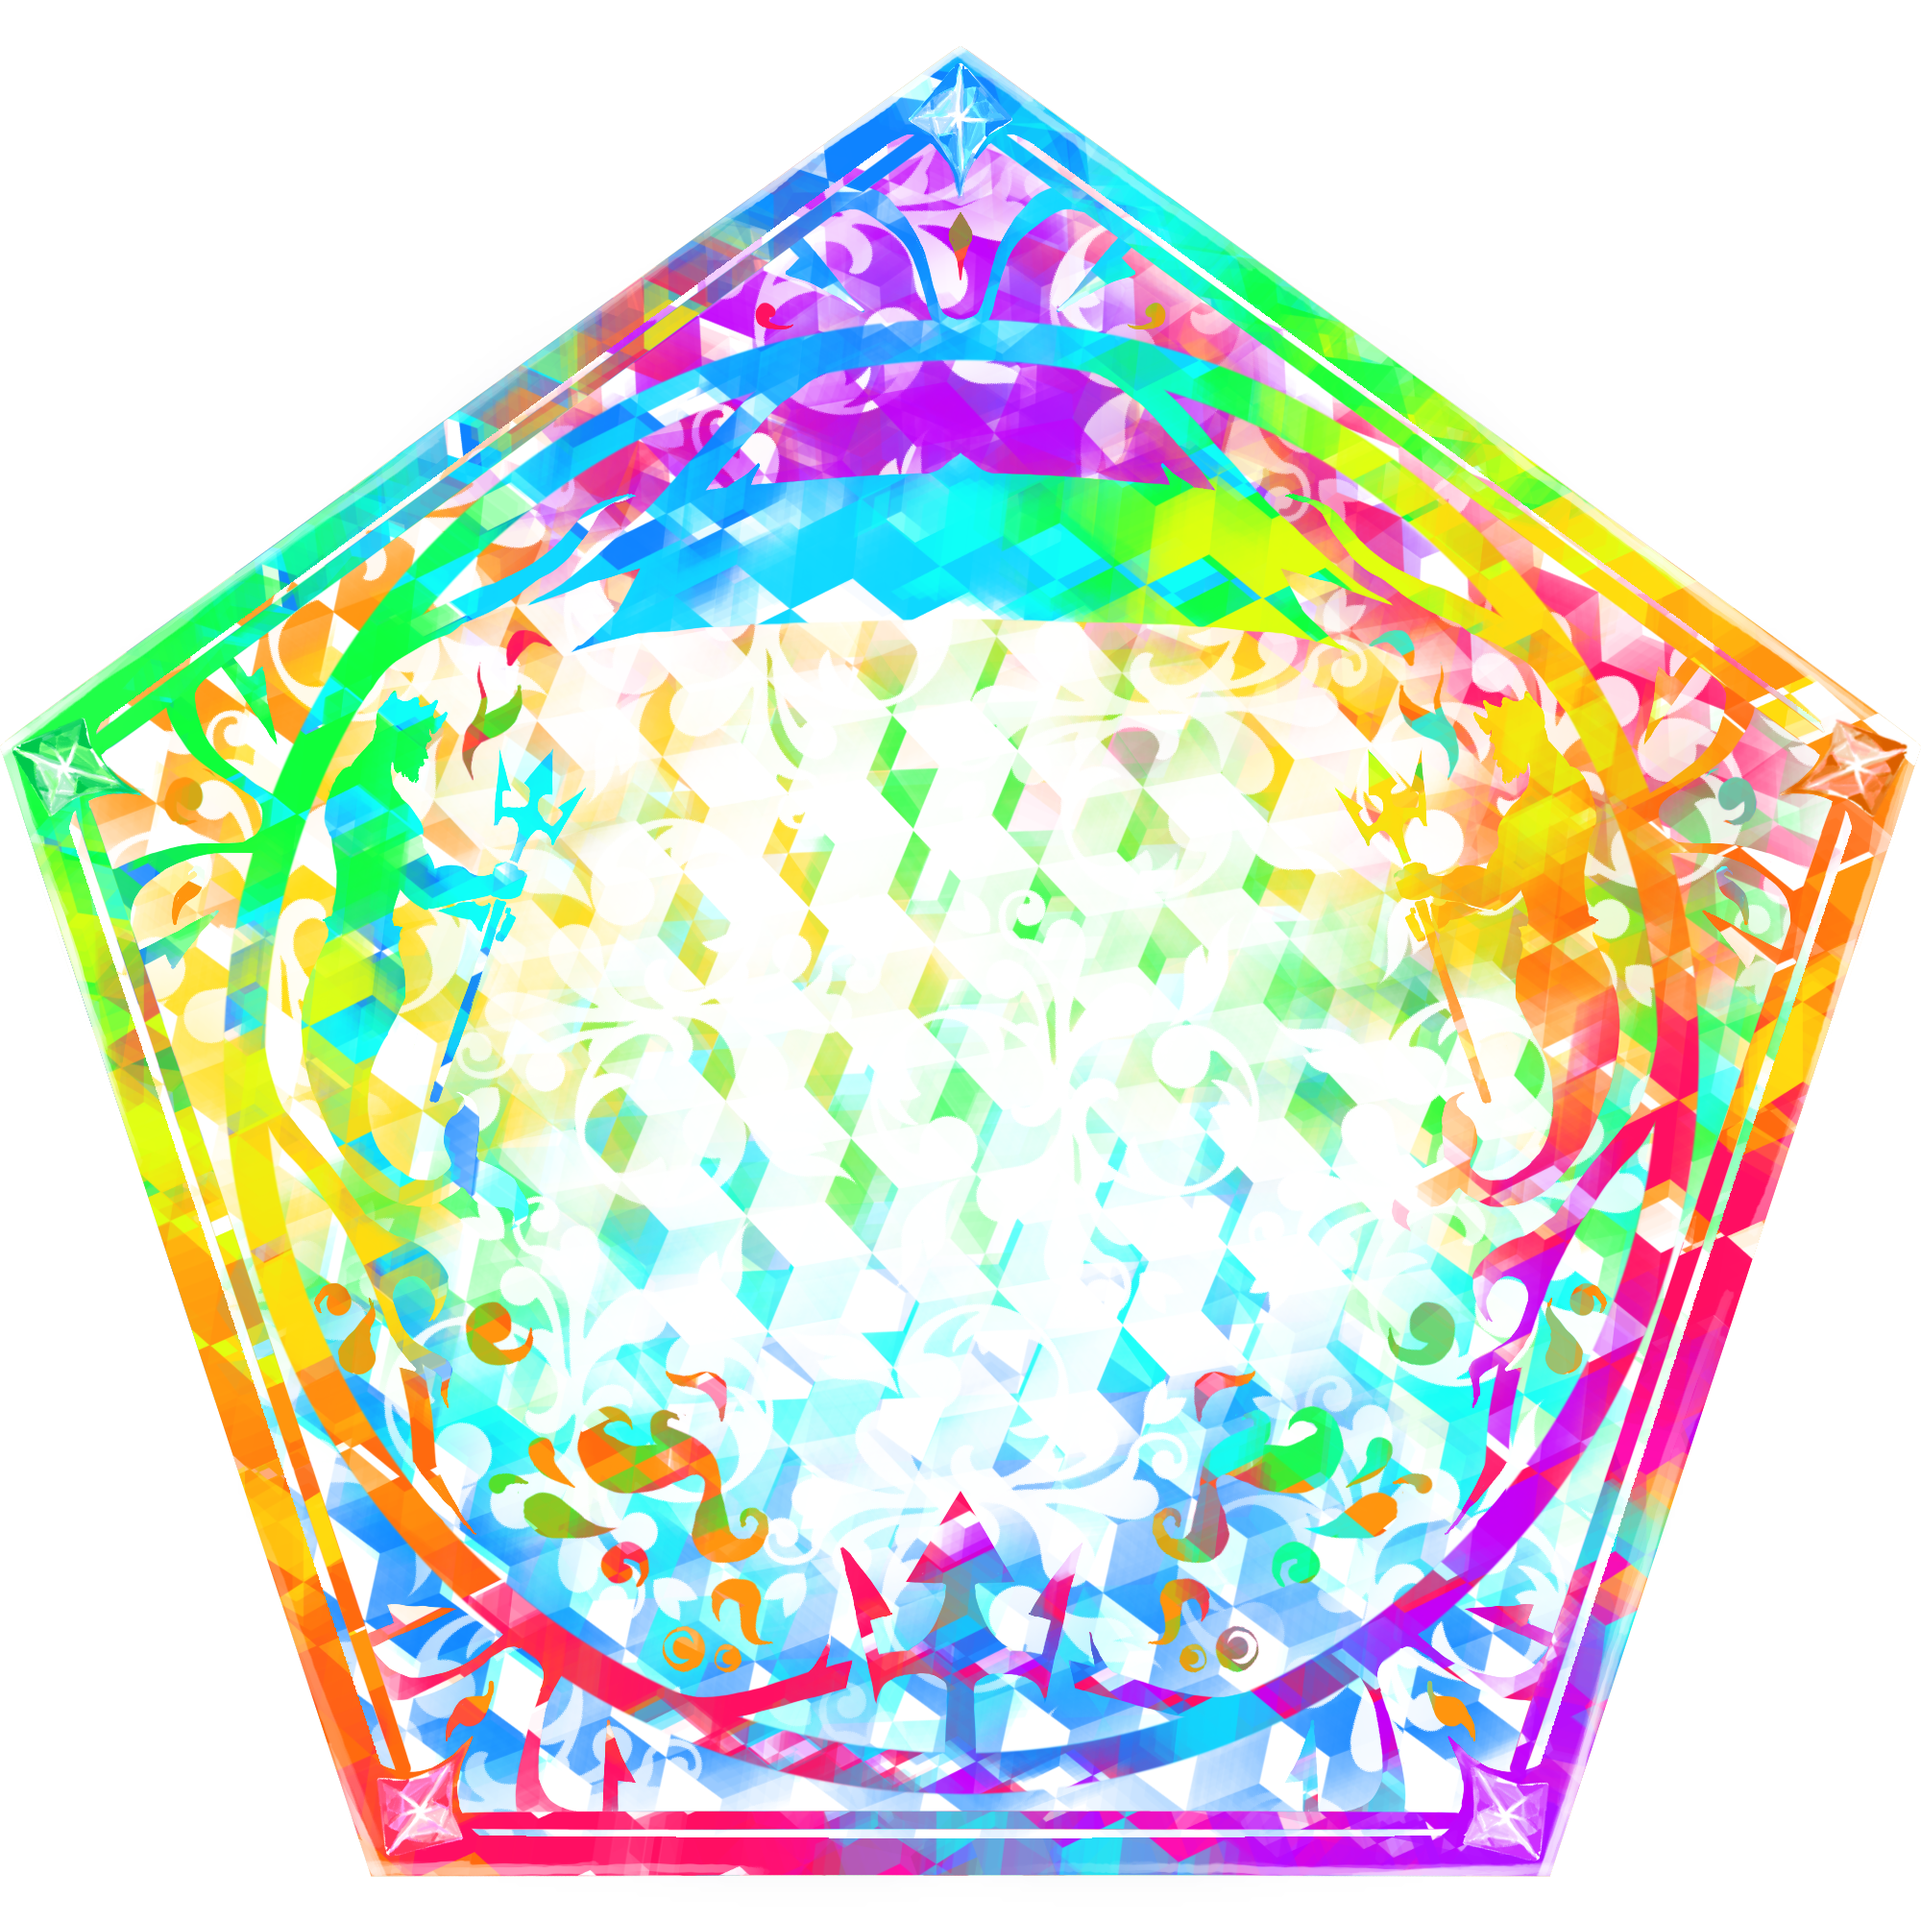
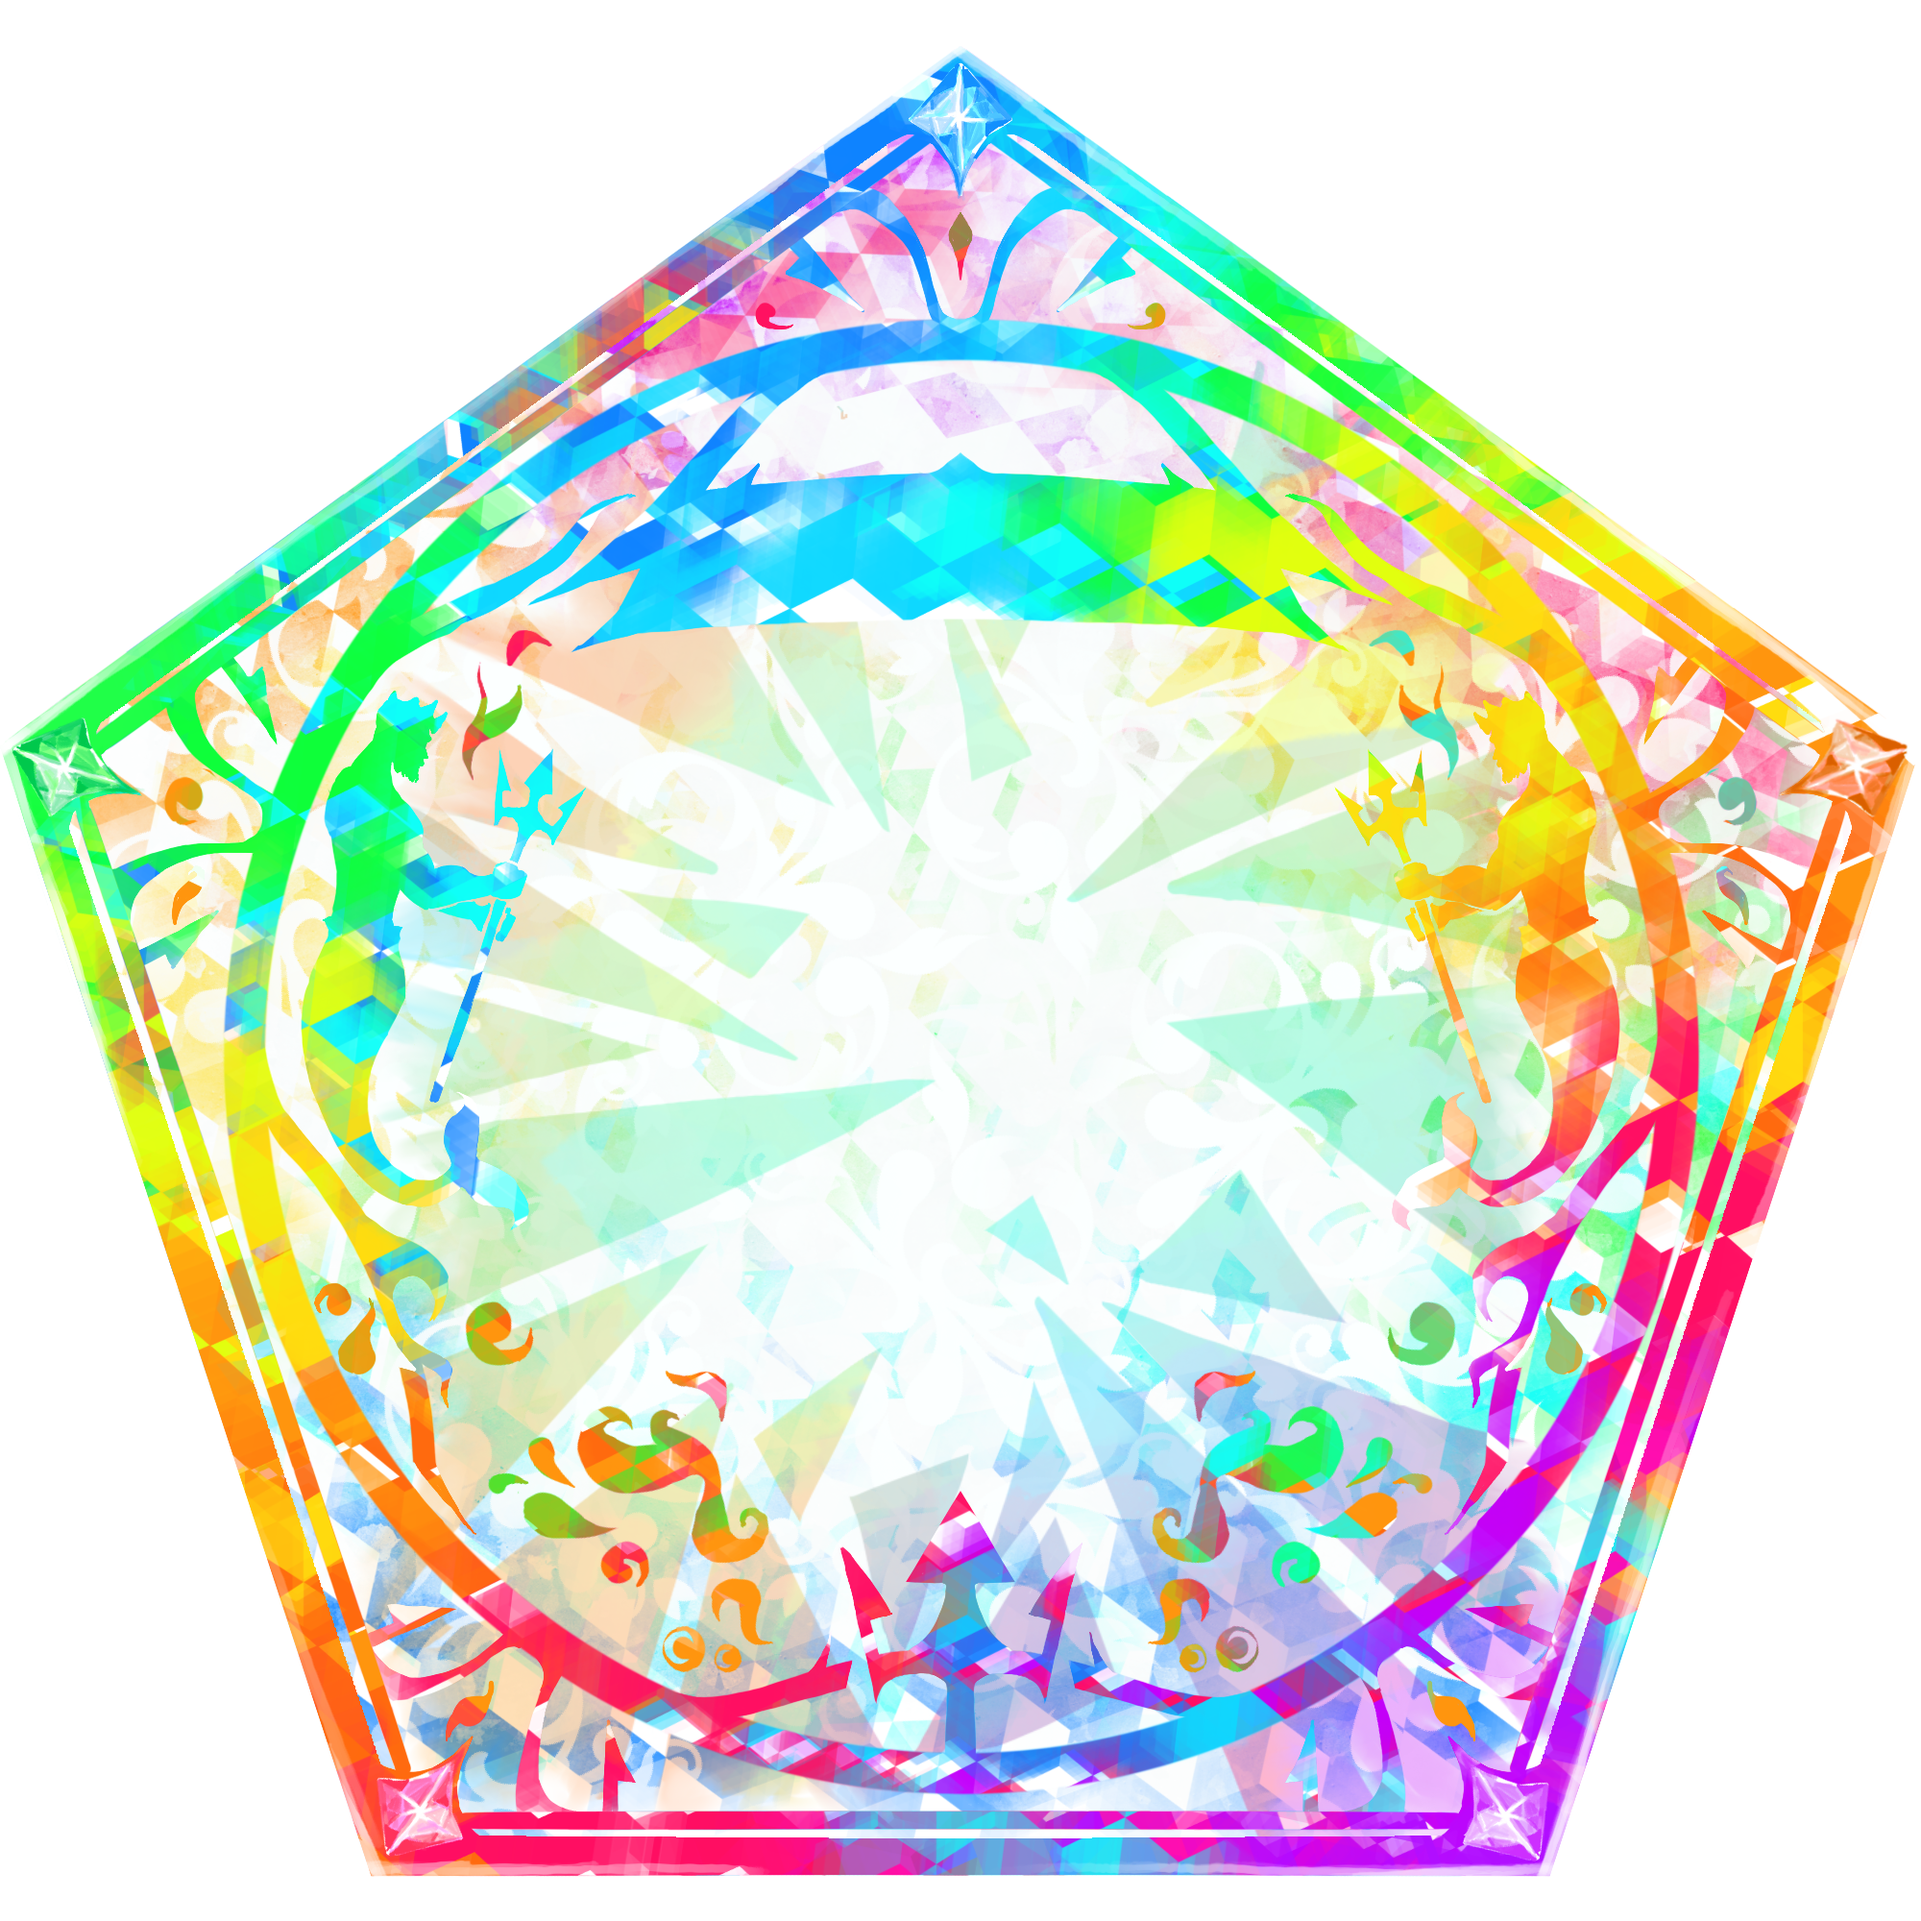
update card back test text and change legendary card back image

Changed region(s): [[0.031, 0.062, 0.93, 0.961], [0.217, 0.248, 0.248, 0.279]]

diff --git a/components/frog-card.js b/components/frog-card.js
@@ -75,7 +75,7 @@ class FrogCard extends HTMLElement {
 			position: absolute;
 			bottom: 6%;
 			z-index: 3;
-			color: var(--name-color);
+			color: #003057; /* ucsd blue */
 			font-size: 100%;
 		}
 
@@ -93,7 +93,7 @@ class FrogCard extends HTMLElement {
 			position: absolute;
 			top: 23%;
 			z-index: 2;
-			color: var(--name-color);
+			color: #003057; /* ucsd blue */
 			font-size: 80%;
 		}
 
@@ -131,10 +131,8 @@ class FrogCard extends HTMLElement {
 		const card = this.shadowRoot.querySelector('card');
 
 		if (data.rarity === "legendary") {
-			this.style.setProperty('--name-color', '#003057'); // ucsd blue
 			this.style.setProperty('--text-color', '#003057'); // ucsd blue
 		} else {
-			this.style.setProperty('--name-color', '#003057'); // ucsd blue
 			this.style.setProperty('--text-color', '#f2a900'); // ucsd yellow
 		}
 
